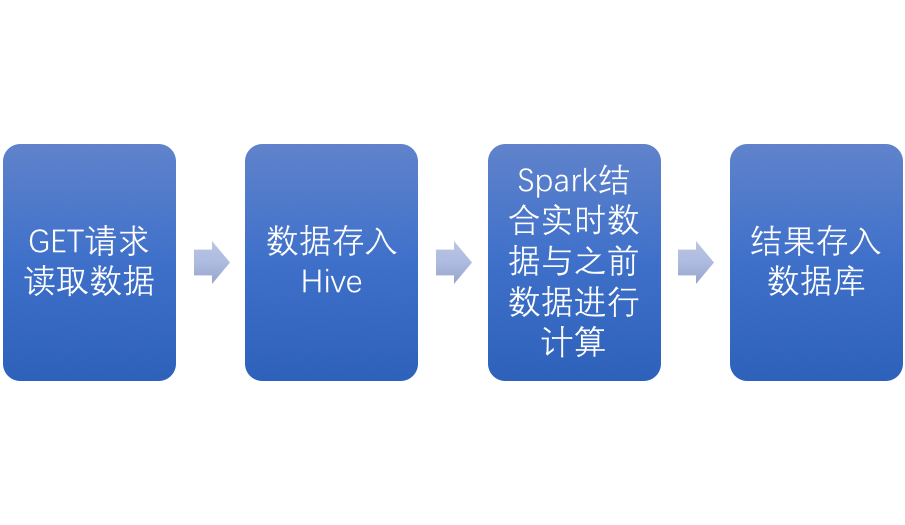
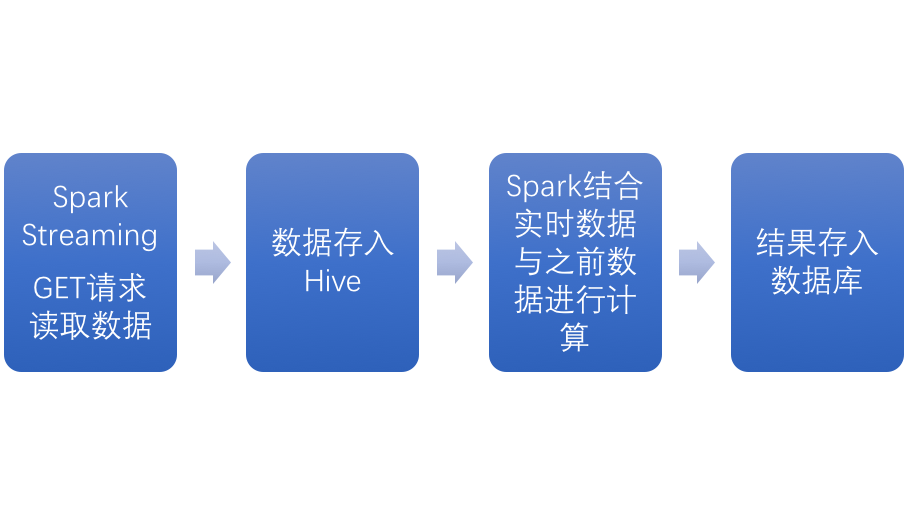
基本完成数据分析文档

diff --git a/系统设计说明书.md b/系统设计说明书.md
@@ -4,7 +4,7 @@
 
 ### 整体结构图
 
-![](整体结构图.png)
+![](整体结构.png)
 
 ### 网络拓扑设计
 
@@ -16,7 +16,7 @@
 
 #### 数据收集系统架构设计
 
-#### 数据分析系统架构设计
+
 
 #### 数据分析系统架构设计
 
@@ -24,7 +24,65 @@
 
 ![](数据分析流程.png)
 
-## 设计理念
+#### 数据展示系统架构设计
 
-## 数据分析算法
+数据展示系统使用jQuery和bootstrap作为前端框架，结合easy pie chart 和 百度ECharts库绘制图表展示给商户
 
+## 系统特色
+
+1. 整个系统都部署在以openstack为基础的云计算平台上，使用虚拟化技术完整实现了分布式需求，并能实现热迁移功能。
+2. 使用NAT协议将整个系统集群与外部网络隔离，增强安全性，同时各个子系统处于不同子网，便于修改和维护
+
+## 算法设计
+
+### 数据收集系统
+
+### 数据分析系统
+
+从数据收集系统获得的数据会被分为两个表存如分布式数据库Hive中：
+
+```sql
+CREATE TABLE client (
+  `sniffer` STRING,
+  `client` STRING,
+  `power` INT,
+  `time` INT
+);
+CREATE TABLE `power` (
+  `sniffer` STRING,
+  `client` STRING,
+  `power` INT,
+  `time` INT
+);
+```
+
+其中client表存储三十秒内所有出现过的MAC地址，power表存储所有记录过的MAC地址。
+
+然后依次按照以下顺序计算需求中的属性：
+
+    连续时间：
+    在power表中按mac分组进行检索，如果相邻两条时间在半小时内，则认为是连续时间，否则认为是用户离开后再次入店，然后从power中清除上一次离店时间之前的数据
+    
+    客流量：对client表计数
+    
+    入店量：上一数据中获取信号量小于某一阈值的计数，然后对client表删除这些小于阈值的行
+    
+    入店率：客流量/入店量
+    
+    来访周期：从client获取mac，然后按值从power中查找最后两个时间差，如果大于半个小时则记录，求平均输出
+    
+    新老顾客：
+        新顾客，从client表中获取mac，按值查找在power表中最后两个时间差小于半个小时或只有一个记录的客户
+        老顾客，获取client的计数，计数量减去新顾客
+    
+    驻店时长：client中获取mac，获取该值的连续时间，求平均输出
+    
+    跳出率：驻店时长小于120s的计数/client计数
+    
+    深访率：驻店时长大于1800s的计数/client计数
+    
+    顾客活跃度：
+        高活跃的用户：来访周期小于36小时的用户的百分比
+        中活跃度用户：非高活跃度中来访周期小于8天的用户百分比
+        低活跃度用户：非中高用户中来访周期小于31天的用户百分比
+        沉睡活跃度用户：1-上三项

diff --git a/软件需求书-文档.md b/软件需求书-文档.md
@@ -34,7 +34,7 @@ WIfi探针能利用智能设备商WIFI模块所发出的无线广播信号进行
 
 #### 系统结构图
 
-![](系统结构图.png)
+![](系统结构.png)
 
 ### 参考文献
 
